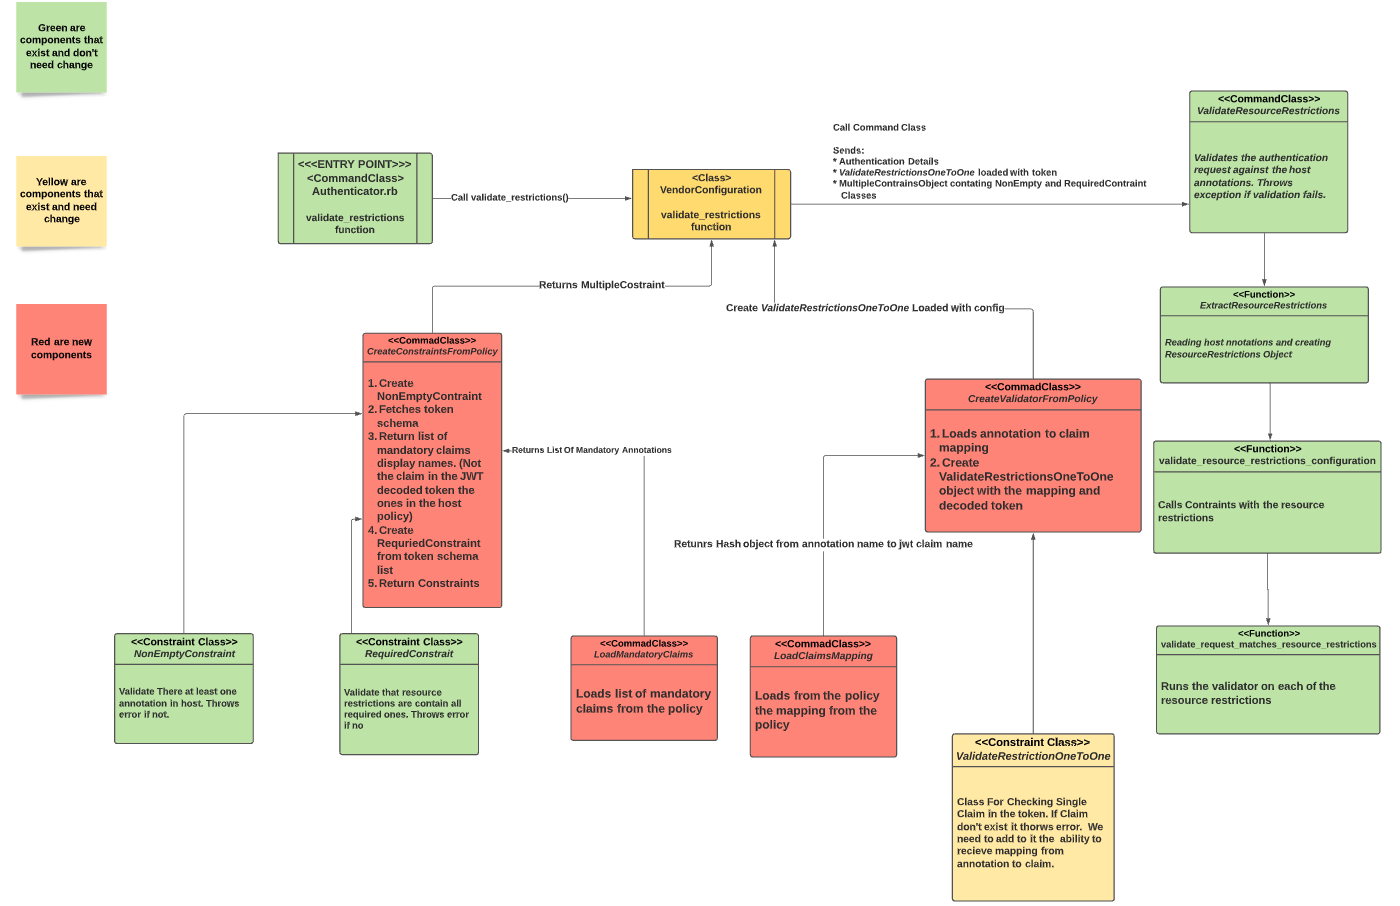
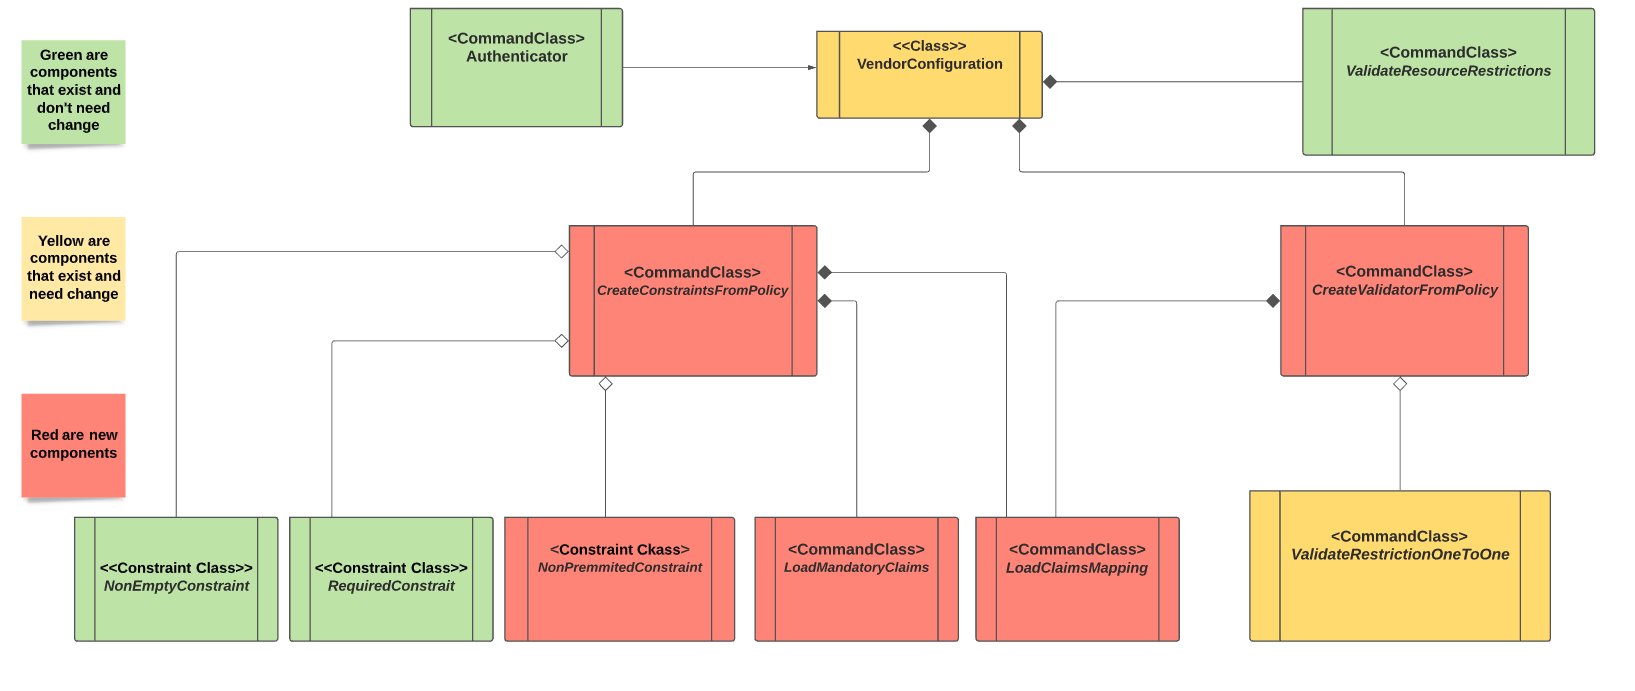
Fix by pr comments

diff --git a/design/authenticators/authn_jwt/token_schema.md b/design/authenticators/authn_jwt/token_schema.md
@@ -1,4 +1,4 @@
-# Solution Design - Authn JWT Token Schema
+# Solution Design - Authn JWT Mandatory Claims And Mapping
 
 [//]: # "1. Design should be graphical-based and table-based - avoid long text explanations"
 [//]: # "2. Design documents should not be updated after implementation"
@@ -8,25 +8,28 @@
 ## Table of Contents
 [//]: # "You can use this tool to generate a TOC - https://ecotrust-canada.github.io/markdown-toc/"
 
-- [Solution Design - Authn JWT Token Schema](#solution-design---authn-jwt-token-schema)
-  * [Table of Contents](#table-of-contents)
-  * [Glossary](#glossary)
-  * [Useful Links](#useful-links)
-  * [Requirements](#requirements)
-  * [Solution](#solution)
-    + [User Interface](#user-interface)
-      - [Authenticator Policy](#authenticator-policy)
-      - [Variable Values Example](#variable-values-example)
-  * [Design](#design)
-    + [Class Diagrams](#class-diagrams)
-    + [Flow Explanation](#flow-explanation)
-  * [Backwards Compatibility](#backwards-compatibility)
-  * [Affected Components](#affected-components)
-  * [Delivery Plan](#delivery-plan)
-  * [Delivery Plan](#delivery-plan-1)
-  * [Open Questions](#open-questions)
-  * [Definition of Done](#definition-of-done)
-  * [Solution Review](#solution-review)
+- * [Solution Design - Authn JWT Mandatory Claims And Mapping](#solution-design---authn-jwt-mandatory-claims-and-mapping)
+    * [Table of Contents](#table-of-contents)
+    * [Glossary](#glossary)
+    * [Useful Links](#useful-links)
+    * [Requirements](#requirements)
+    * [Solution](#solution)
+      + [User Interface](#user-interface)
+        - [Authenticator Policy](#authenticator-policy)
+        - [Variable Values Example](#variable-values-example)
+    * [Design](#design)
+      + [Flow Chart](#flow-chart)
+      + [Flow Explanation](#flow-explanation)
+      + [Class Diagrams](#class-diagrams)
+    * [Backwards Compatibility](#backwards-compatibility)
+    * [Affected Components](#affected-components)
+    * [Delivery Plan](#delivery-plan)
+    * [Security](#security)
+    * [Test Plan](#test-plan)
+    * [Open Questions](#open-questions)
+    * [Documentation](#documentation)
+    * [Definition of Done](#definition-of-done)
+    * [Solution Review](#solution-review)
 
 ## Glossary
 
@@ -57,7 +60,7 @@
    1. The user should have the ability to map a given "technical" claim name to a more familiar / business one - i.e, in git-lab. Instead of mentioning in the policy "sub" claim, the user will have the ability to mention "job"
 
 ## Solution
-User will define the token schema variables in the authenticator policy. The variables will be checked in the JWT authentication request.
+User will define the mandatory claims and claims mapping variables in the authenticator policy. The variables will be checked in the JWT authentication request.
 
 * The usage of this variables is optional and non mandatory. User can authenticate to JWT in the same way he authenticated in stage 1. Using the feature adds more security checks to the authentication.
 
@@ -67,8 +70,8 @@ User will define the token schema variables in the authenticator policy. The var
 
 Two new variables will be added to the authenticator policy:
 
-* mandatory_claims
-* claims_mapping
+* host_mandatory_claims
+* mapping_claims
 
 ```yaml
     - !policy
@@ -80,18 +83,23 @@ Two new variables will be added to the authenticator policy:
       id: mandatory_claims
       
     - !variable
-      id: claims_mapping
+      id: mapping_claims
 ```
 
 #### Variable Values Example
 
-| Name             | Value                   | Description                                      |
-| ---------------- | ----------------------- | ------------------------------------------------ |
-| mandatory_claims | branch, job, aud        | List of claims as they appear in host annotation |
-| claims_mapping   | {ref: branch, sub: job} | Mapping between host annotation to JWT claim     |
+| Name             | Value                 | Description                                      |
+| ---------------- | --------------------- | ------------------------------------------------ |
+| mandatory_claims | ref, sub              | List of claims as they appear in host annotation |
+| mapping_claims   | branch: ref, job: ref | Mapping between host annotation to JWT claim     |
 
 * For any claim mapped, we will add the host annotation to the `mandatory_claims` variable and not the JWT claim name.
 * The values above are examples and they can be any claims.
+* If one of the values of this variables contain these words from deny list authentication request will be denied:
+  * iss
+  * exp
+  * iat
+  * nbf
 
 
 ## Design
@@ -99,28 +107,47 @@ Two new variables will be added to the authenticator policy:
 
 The following class diagram, represent the flow of checking the mandatory claims and the claim mapping.
 
-### Class Diagrams
 
 
-![image-20210711171238701](token-schema-class-diagram.png)
+
+### Flow Chart
+
+![image-20210713194641586](token-schema-sequence-diagram.png)
 
 ### Flow Explanation
 
 When validate_restrictions is called in JWTVendorConfiguration class the following will happen as a result:
 
-1. The `valitate_restrictions` function will call `CreateConstraintsFromPolicy` that create constraints object checking the hosts annotations.
-   1. It will create instance of `NonEmptyConstraint` to check we have at least one host annotation.
-   2. It will call `LoadMAndatoryClaims` command class to load the list of mandatory claims for the `mandatory_claims` variable
-   3. It will create `RequiredContraint` object from it
+1. The `validate_restrictions` function will call `CreateConstraintsFromPolicy` that create constraints object checking the hosts annotations.
+   1. It create instance of `NonEmptyConstraint` to check we have at least one host annotation.
+   2. Will call `LoadMandatoryClaims` command class to load the list of mandatory claims for the `mandatory_claims` variable. This class will create and return `RequiredConstraint` object.
+      1. If variable configured but not populated error be thrown
+      2. If variiable with invalid value error be thrown
+      3. If variable not configured empty list will be returned
+   3. Will call LoadClaimsMapping to load mapping and convert relevant mandatory claims from mapping
+   4. It create `RequiredConstraint` object from it
+   5. Will create `NonPremmitedConstraint` from deneid claims const ("iat","exp"...)
+   6. With Create `MultipleConstraints` object with all the constraint objects above and return it
 2. The `validate_restrictions` functon will call `CreateValidatorFromPolicy` to create validator with the claims mapping loaded
-   1. It will call the `LoadClaimsMapping` command class to get dictionary between claim to annotation.
-   2. It will create *ValidateRestrictionOneToOne* object and will return it
-3. `ValidateResourceRestrictions` will be called with the contraints and the validator from the previous steps. This run will check the claims in the token and annotations. If anything wrong like a missing claim in the host annotation or claim with invalid value and error with be thrown and the authentication request will be denied.
+   1. Will call the `LoadClaimsMapping` command class to get dictionary between claim to annotation.
+      1. If variable configured but not populated error be thrown
+      2. If variiable with invalid value error be thrown
+      3. If variable not configured empty hash will be returned
+   2. It create *ValidateRestrictionOneToOne* object and will return it
+      1. The logic of ValidateRestrictionOneToOne will check restriction by this order:
+         1. If there is mapping for it will use mapping. If the mapped claim not in token we raise error
+         2. If there is no mapping we will check token has claim from annotation. If its not there we throw error
+3. `ValidateResourceRestrictions` will be called with the constraints and the validator from the previous steps. This run will check the claims in the token and annotations. If anything wrong like a missing claim in the host annotation or a claim has an invalid value, an error with be thrown and the authentication request will be denied.
+
+### Class Diagrams
+
+
+![](token-schema-class-diagram.png)
 
 ## Backwards Compatibility
 [//]: # "How will the design of this solution impact backwards compatibility? Address how you are going to handle backwards compatibility, if necessary"
 
-Token schema is not mandatory therfore the JWT authentication will remain backwards compatible.
+Mandatory claims and mapping are not mandatory therefore the JWT authentication will remain backwards compatible.
 
 ## Affected Components
 
@@ -132,30 +159,40 @@ Token schema is not mandatory therfore the JWT authentication will remain backwa
 
 * JWT Authenticator
 
-
-
 ## Delivery Plan
 
-| Mission                                          | Estimation |
-| ------------------------------------------------ | ---------- |
-| Support mandatory claims                         | 5 SP       |
-| Support claims mapping                           | 5 SP       |
-| Add status checks for token schema configuration | 2 SP       |
-| Add Cucumber tests for token schema              | 5 SP       |
+| Mission                                                      | Estimation |
+| ------------------------------------------------------------ | ---------- |
+| Add LoadMandatoryClaims                                      | 1 SP       |
+| Add NonPremmitedConstraint                                   | 1 SP       |
+| Add LoadClaimsMapping                                        | 1 SP       |
+| Change ValidateRestrictionOneToOne to work with mapping      | 2 SP       |
+| Add CreateConstraintsFromPolicy Command Class and use it     | 2 SP       |
+| Add CreateValidatorFromPolicy and use it                     | 2 SP       |
+| Add status checks for mandatory claims and claims mapping configuration | 3 SP       |
+| Add Cucumber tests for mandatory claims and mapping          | 5 SP       |
+| Check "aud" annotation with list                             | 3 SP       |
+| Documentation                                                |            |
+
+## Security
+
+* If mandatory claims or clamins mapping has invalid value we should fail the authentication.
+
+## Test Plan
+
+https://ca-il-confluence.il.cyber-ark.com/x/9AIiFQ
 
 ## Open Questions
+
 [//]: # "Add any question that is still open. It makes it easier for the reader to have the open questions accumulated here instead of them being acattered along the doc"
 
-* How the `claims_mapping` should look like
-  * Option 1: A dictionary
-    `{ref: branch, sub: job}`
-  * Option 2: Just the paris
-    `ref:branch, sub:job`
-* What is the expected behaviour if we recive on of this standard claims in the `mandatory_claims` or `claims_mapping`
-  * iss
-  * iat
-  * exp
-  * nbf
+* What happens if host already exists and than we configure mandatory claims that he doesn't check - Documentation
+* What about claims that are dictioneires - Out Of Scope.
+
+## Documentation
+
+* When mandatory claims or mapping is changed all relevant hosts need to be updated. 
+* When mapping of mandatory claim is changed or added mandatory claims need to be added.
 
 ## Definition of Done
 
@@ -169,10 +206,11 @@ Token schema is not mandatory therfore the JWT authentication will remain backwa
 ## Solution Review
 [//]: # "Relevant personas can indicate their design approval by approving the pull request"
 
-| **Persona**        | **Name** |
-|--------------------|----------|
-| Team leader        |          |
-| Product owner      |          |
-| System architect   |          |
-| Security architect |          |
-| QA architect       |          |
+| **Persona**        | **Name**     |
+| ------------------ | ------------ |
+| Team leader        | @benoaviram  |
+| Product owner      | @hilagross   |
+| System architect   | @tzheleznyak |
+| Security architect | @sashacher   |
+| QA architect       | @eladkug     |
+
